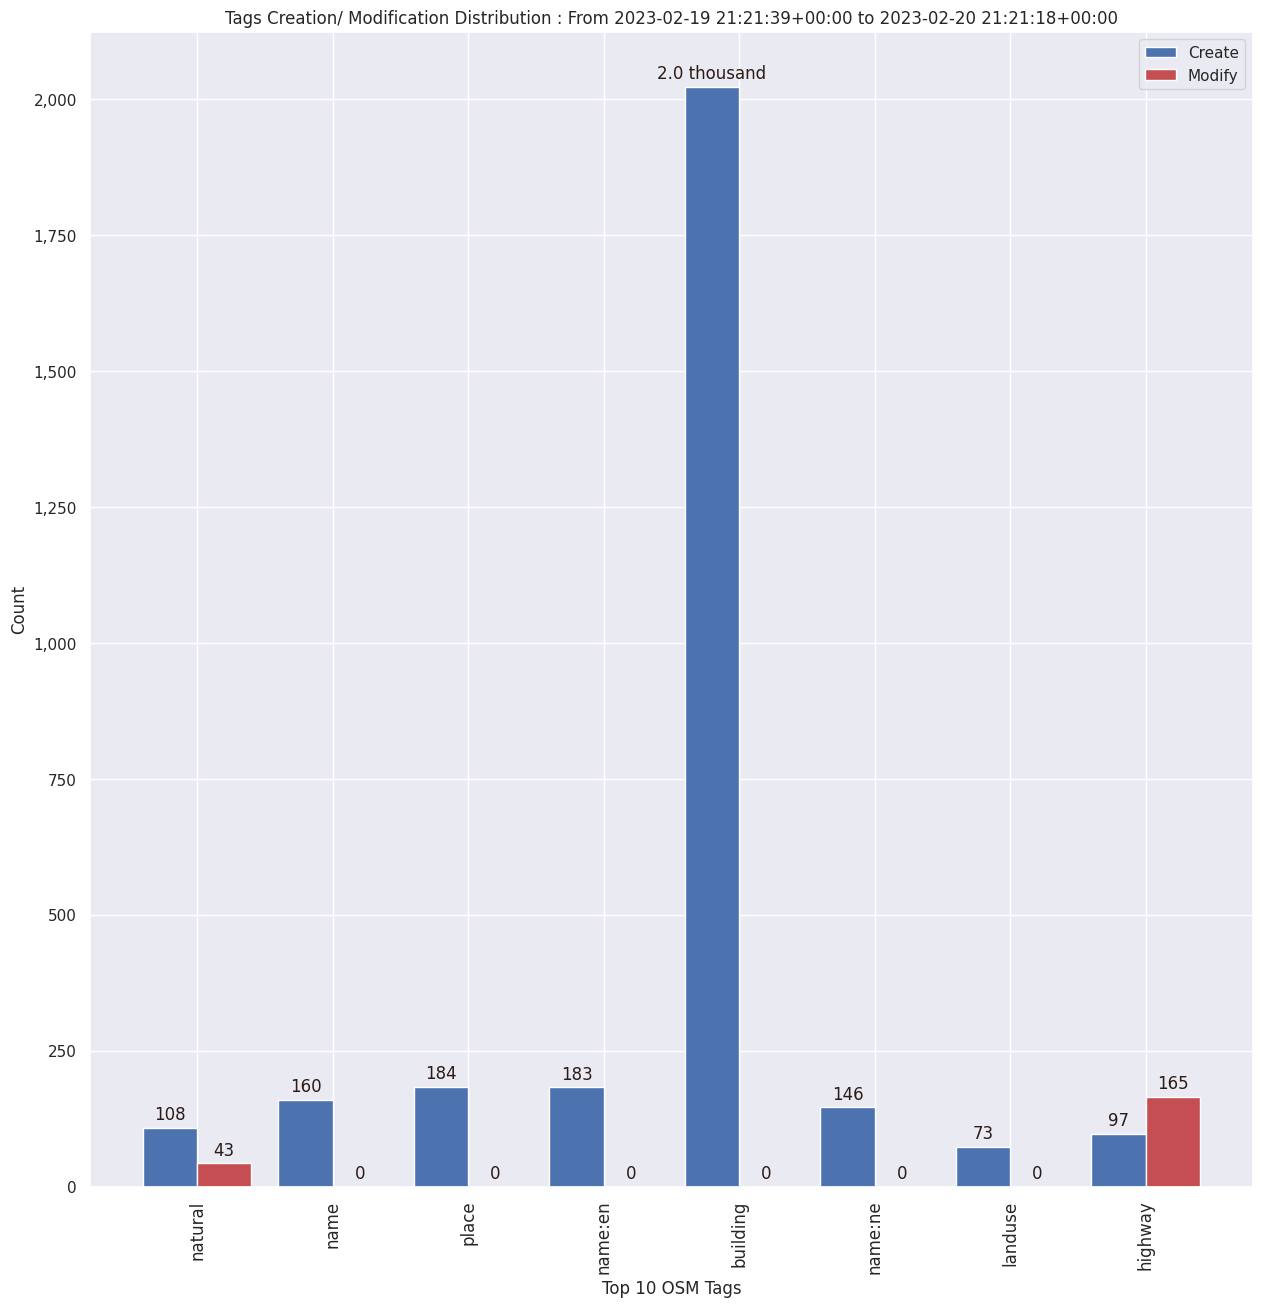
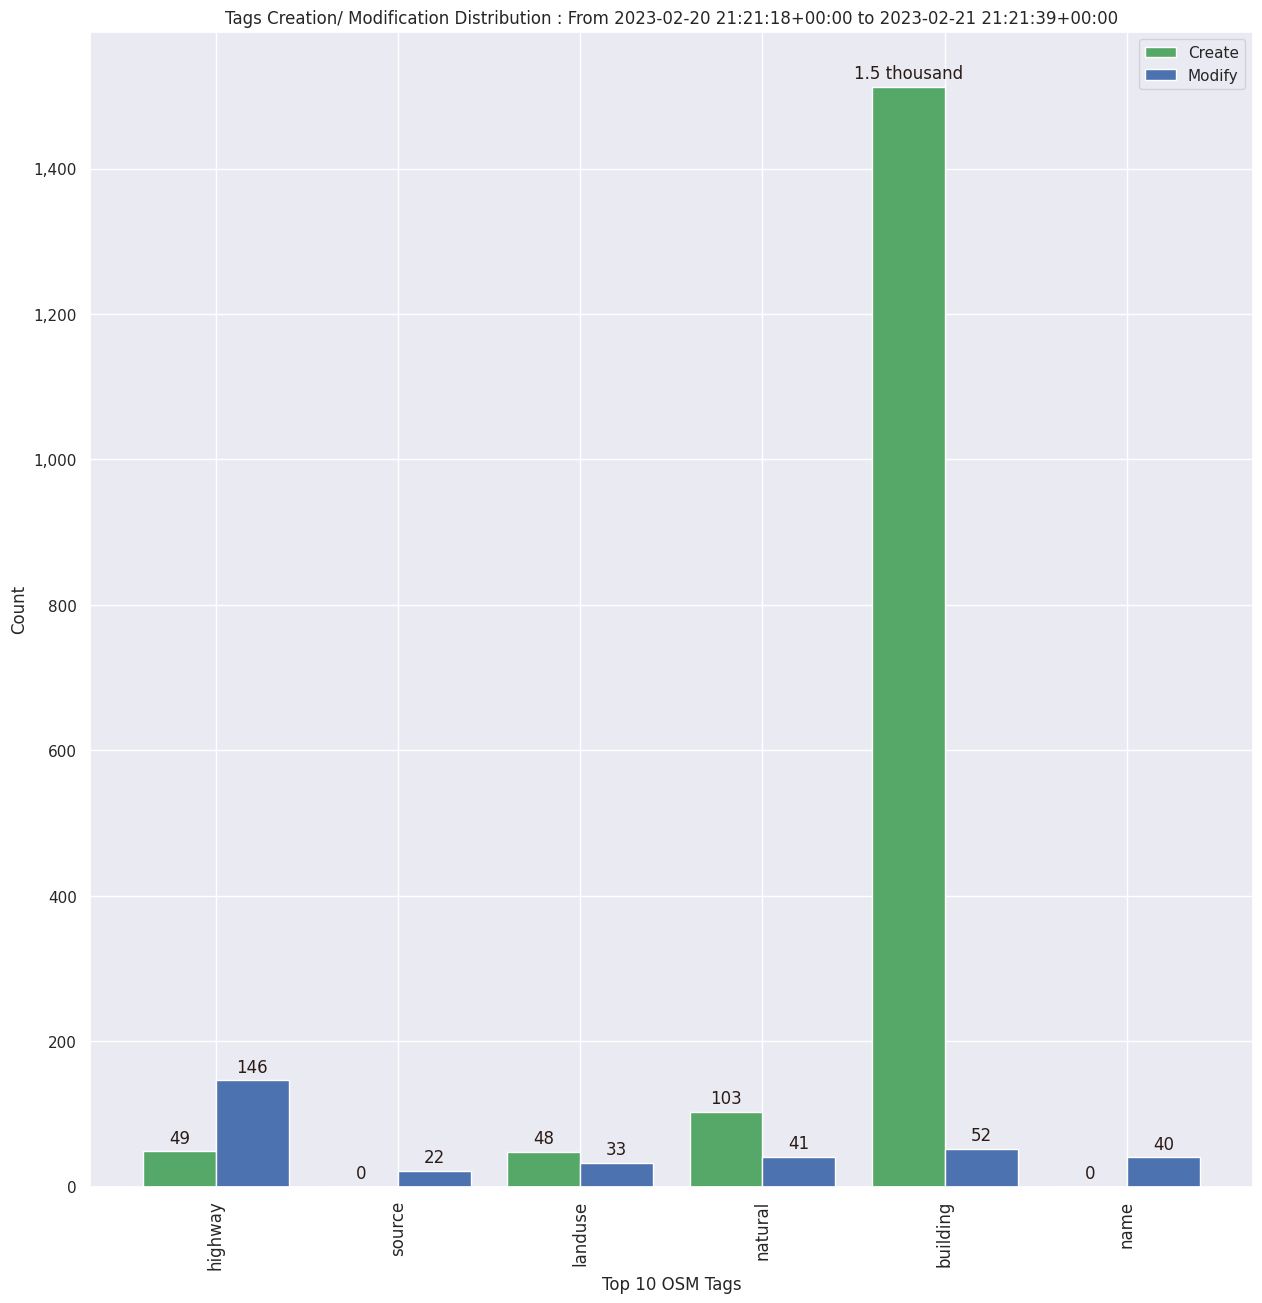
Updated Readme Daily Nepal

diff --git a/stats/Nepal/Daily/README.md b/stats/Nepal/Daily/README.md
@@ -1,10 +1,10 @@
 ### Last Update :
 
-### Stats From 2023-02-20 03:06:39+05:45 to 2023-02-21 03:06:18+05:45
+### Stats From 2023-02-21 03:06:18+05:45 to 2023-02-22 03:06:39+05:45
 
-26 Users made 107 changesets with 39.5 thousand map changes.
-- 36.2 thousand OSM Elements were Created,3.2 thousand Modified & 0 Deleted . Including 2.0 thousand buildings & 97 highways created. marek kleciak tops table with 12.2 thousand changes
-- Top three trending hashtags for those stats are #adt : 5, #MondayValidation : 5 & #Nepal : 5
+24 Users made 108 changesets with 31.8 thousand map changes.
+- 27.3 thousand OSM Elements were Created,4.5 thousand Modified & 0 Deleted . Including 1.5 thousand buildings & 49 highways created. marek kleciak tops table with 9.3 thousand changes
+- Top three trending hashtags for those stats are #osmnepal : 5, #adt : 4 & #dmd : 2
 - 
 ![Alt text](./charts/osm_changes.png) 
 ![Alt text](./charts/users_per_hashtag.png) 
